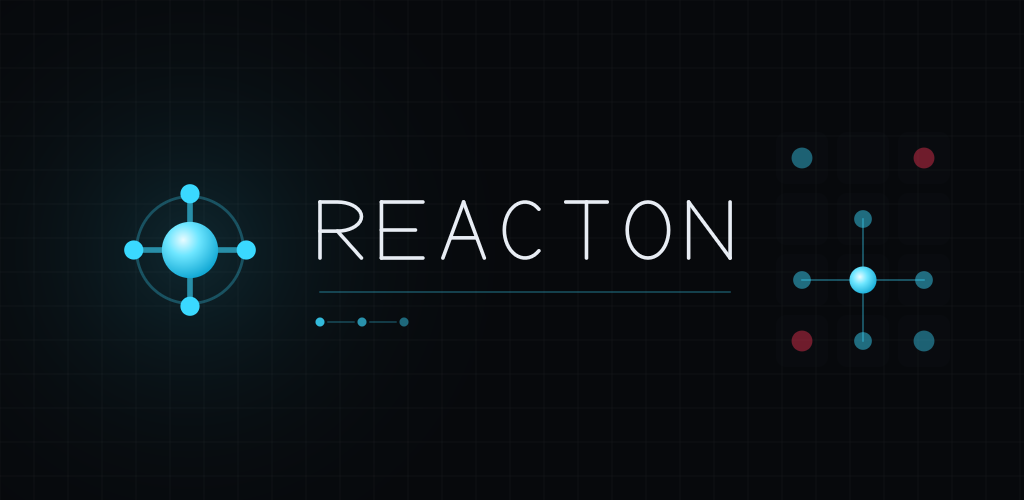
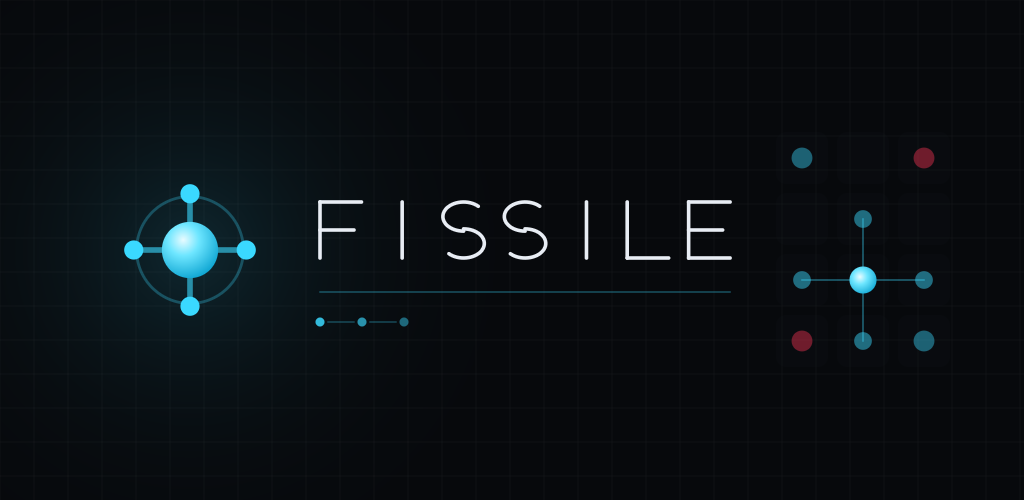
Rename to FISSILE
Reacton was never cleared, and checking it properly turned up a crowded
field: Orbix, Popline, Blastix, Cellix, Kriton, Shockwave and Ripple Rush
were all taken or sat beside an existing mark in the same category -
several of them chain-reaction games with the same feature sentence.

The pattern was consistent enough to act on: evocative words that
describe the mechanic are exactly the words other chain-reaction games
already took. Fissile survived because it does not sound like an obvious
game name. It is also a real word meaning "capable of sustaining a chain
reaction", which is the mechanic stated exactly, and a real term from an
unrelated field applied to a game is arbitrary - the strongest kind of
mark after an invented one.

Store name is "FISSILE: Chain Reactor", 22 of 30 characters. The subtitle
does discovery work rather than branding work: "chain reaction" is what
people search for, and carrying it there costs nothing while the name
itself stays ownable. The wordmark, icon and home-screen label stay the
bare FISSILE.

The icon generator draws its wordmark from a hand-built alphabet, so this
needed four new letterforms. F, I and L were straightforward. The S was
not: the first attempt stacked two bowls curving the same way, which
renders as a C above a U rather than an S. The bowls have to be mirrored
through the letter's centre, with the upper ending at its own bottom and
the lower starting at its own top - the same point - so the stroke reads
[…]

Changed region(s): [[0.3125, 0.39, 0.5312, 0.54], [0.5625, 0.39, 0.7188, 0.54], [0.5, 0.39, 0.5312, 0.42]]

diff --git a/public/terms.html b/public/terms.html
@@ -5,7 +5,7 @@
     <meta name="viewport" content="width=device-width, initial-scale=1" />
     <meta name="robots" content="index, follow" />
     <link rel="icon" type="image/svg+xml" href="/favicon.svg" />
-    <title>Terms — REACTON</title>
+    <title>Terms — FISSILE</title>
     <style>
       :root {
         --bg: #07090c;
@@ -64,7 +64,7 @@
   <body>
     <main>
       <header>
-        <a class="brand" href="/">REACTON</a>
+        <a class="brand" href="/">FISSILE</a>
         <h1>Terms of use</h1>
         <p class="updated">Last updated 25 August 2026</p>
       </header>
@@ -73,10 +73,10 @@
         <p><b>Draft.</b> Written to match how the game actually works, but not reviewed by a lawyer and not legal advice. Fill in every <span class="fill">[BRACKETED]</span> value and have it reviewed before launch or store submission.</p>
       </div>
 
-      <p>By playing REACTON you agree to these terms. If you do not agree, please do not play.</p>
+      <p>By playing FISSILE you agree to these terms. If you do not agree, please do not play.</p>
 
       <h2>The game</h2>
-      <p>REACTON is provided free of charge for personal, non-commercial entertainment. You may play it, and share links to it, as much as you like. You may not resell it, repackage it, or present it as your own.</p>
+      <p>FISSILE is provided free of charge for personal, non-commercial entertainment. You may play it, and share links to it, as much as you like. You may not resell it, repackage it, or present it as your own.</p>
 
       <h2>Your account</h2>
       <p>Online play uses a <b>guest account</b> created automatically by the server. There is no password to protect and no email address attached, which has one consequence you should understand before you invest time in a rating:</p>
@@ -107,7 +107,7 @@
       <p>To the fullest extent permitted by law, <span class="fill">[LEGAL ENTITY / TRADING NAME]</span> is not liable for any indirect, incidental or consequential loss arising from your use of the game, including lost accounts, lost ratings or lost time. Nothing here limits liability that cannot be limited by law.</p>
 
       <h2>Intellectual property</h2>
-      <p>The name, mark, artwork, sound, code and presentation of REACTON belong to <span class="fill">[LEGAL ENTITY / TRADING NAME]</span>. The underlying chain-reaction game mechanic is a genre and belongs to nobody; this implementation, its identity and its presentation are original work.</p>
+      <p>The name, mark, artwork, sound, code and presentation of FISSILE belong to <span class="fill">[LEGAL ENTITY / TRADING NAME]</span>. The underlying chain-reaction game mechanic is a genre and belongs to nobody; this implementation, its identity and its presentation are original work.</p>
 
       <h2>Privacy</h2>
       <p>What the game stores and why is set out in the <a href="/privacy.html">Privacy notice</a>, which forms part of these terms.</p>

diff --git a/index.html b/index.html
@@ -11,27 +11,27 @@
     <meta name="mobile-web-app-capable" content="yes" />
     <meta name="apple-mobile-web-app-capable" content="yes" />
     <meta name="apple-mobile-web-app-status-bar-style" content="black-translucent" />
-    <meta name="description" content="REACTON — a multiplayer orb-reaction strategy game. Drive cells past critical mass, propagate the cascade, capture the field. Local pass-and-play or online with a room code." />
+    <meta name="description" content="FISSILE — a multiplayer orb-reaction strategy game. Drive cells past critical mass, propagate the cascade, capture the field. Local pass-and-play or online with a room code." />
 
     <!-- Share cards need an absolute URL and a raster image: a relative path
          resolves against the crawler, and almost no platform renders SVG.
          Regenerate og-card.png with "npm run icons"; update the origin here
          if the deployed domain changes. -->
     <meta property="og:type" content="website" />
-    <meta property="og:site_name" content="REACTON" />
+    <meta property="og:site_name" content="FISSILE" />
     <meta property="og:url" content="https://chainreaction-sooty.vercel.app/" />
-    <meta property="og:title" content="REACTON" />
+    <meta property="og:title" content="FISSILE: Chain Reactor" />
     <meta property="og:description" content="Drive cells past critical mass. Propagate the cascade. Capture the field." />
     <meta property="og:image" content="https://chainreaction-sooty.vercel.app/og-card.png" />
     <meta property="og:image:width" content="1200" />
     <meta property="og:image:height" content="630" />
-    <meta property="og:image:alt" content="The REACTON mark: a charged cell firing into its four neighbours." />
+    <meta property="og:image:alt" content="The FISSILE mark: a charged cell firing into its four neighbours." />
     <meta name="twitter:card" content="summary_large_image" />
-    <meta name="twitter:title" content="REACTON" />
+    <meta name="twitter:title" content="FISSILE: Chain Reactor" />
     <meta name="twitter:description" content="Drive cells past critical mass. Propagate the cascade. Capture the field." />
     <meta name="twitter:image" content="https://chainreaction-sooty.vercel.app/og-card.png" />
 
-    <title>REACTON — chain reaction strategy</title>
+    <title>FISSILE: Chain Reactor</title>
   </head>
   <body>
     <div id="app">
@@ -72,7 +72,7 @@
               <circle class="mark-wave" cx="32" cy="32" r="10" />
               <circle class="mark-core" cx="32" cy="32" r="10" />
             </svg>
-            <h1 class="logo">REACTON</h1>
+            <h1 class="logo">FISSILE</h1>
             <p class="tagline">critical mass · propagation · capture</p>
           </div>
 

diff --git a/public/privacy.html b/public/privacy.html
@@ -5,7 +5,7 @@
     <meta name="viewport" content="width=device-width, initial-scale=1" />
     <meta name="robots" content="index, follow" />
     <link rel="icon" type="image/svg+xml" href="/favicon.svg" />
-    <title>Privacy — REACTON</title>
+    <title>Privacy — FISSILE</title>
     <style>
       :root {
         --bg: #07090c;
@@ -66,7 +66,7 @@
   <body>
     <main>
       <header>
-        <a class="brand" href="/">REACTON</a>
+        <a class="brand" href="/">FISSILE</a>
         <h1>Privacy</h1>
         <p class="updated">Last updated 25 August 2026</p>
       </header>
@@ -75,7 +75,7 @@
         <p><b>Draft.</b> This describes accurately what the game does today, but it has not been reviewed by a lawyer and is not legal advice. Fill in every <span class="fill">[BRACKETED]</span> value and have it reviewed before launch or store submission.</p>
       </div>
 
-      <p>REACTON is a browser game. It is designed to need as little about you as possible: there is no sign-up, no email address, no password, and no advertising or third-party tracking of any kind.</p>
+      <p>FISSILE is a browser game. It is designed to need as little about you as possible: there is no sign-up, no email address, no password, and no advertising or third-party tracking of any kind.</p>
 
       <h2>What is stored on your device</h2>
       <p>The game keeps a small amount of data in your browser's own storage. It never leaves your device unless a section below says otherwise.</p>
@@ -110,7 +110,7 @@
       <p>The game sets no cookies. It uses your browser's local storage, described above, for settings and your account — not for tracking, and not shared with anyone.</p>
 
       <h2>Children</h2>
-      <p>REACTON is a general-audience game and is not directed at children under 13. We do not knowingly collect personal information from children. Because there is no sign-up, we do not ask for an age. If you believe a child has provided a display name or other information you want removed, contact us at <span class="fill">[CONTACT EMAIL]</span>.</p>
+      <p>FISSILE is a general-audience game and is not directed at children under 13. We do not knowingly collect personal information from children. Because there is no sign-up, we do not ask for an age. If you believe a child has provided a display name or other information you want removed, contact us at <span class="fill">[CONTACT EMAIL]</span>.</p>
 
       <h2>Your choices</h2>
       <ul>

diff --git a/src/style.css b/src/style.css
@@ -1,4 +1,4 @@
-/* REACTON — scientific art direction.
+/* FISSILE — scientific art direction.
    Graphite substrate, hairline structure, one cyan energy accent, and
    monospace for anything that reads as an instrument value. Typography is
    deliberately a system grotesque + system mono rather than a webfont: the

diff --git a/STORE-LISTING.md b/STORE-LISTING.md
@@ -4,9 +4,12 @@ Draft copy and form answers. The data-safety section is derived from what the
 code actually does — if that changes, this has to change with it, because the
 form is a declaration and Google checks it against observed behaviour.
 
-> **The name is still uncleared.** Everything below says REACTON. The package
-> id you choose at `bubblewrap init` can never be changed afterwards, so settle
-> the name first — see the naming notes in the roadmap (§15).
+> **Name: FISSILE.** Chosen after checking Reacton, Orbix, Popline, Blastix,
+> Cellix, Kriton, Shockwave and Ripple Rush — all of which were taken or sat
+> beside an existing mark in the same category. Casual searches found nothing
+> for FISSILE in games; that is **not** a trademark clearance, and USPTO
+> classes 9 and 41 remain the check that counts before the package id is
+> locked at `bubblewrap init`.
 
 ---
 
@@ -15,19 +18,13 @@ form is a declaration and Google checks it against observed behaviour.
 Max 30 characters. Google counts the whole string including any subtitle.
 
 ```
-REACTON
+FISSILE: Chain Reactor
 ```
 
-Alternatives if the bare name reads too thin in search results:
-
-```
-REACTON: Chain Reaction
-REACTON — Orb Strategy
-```
-
-The second word is doing discovery work, not branding work. "Chain reaction" is
-the phrase people actually search, and putting it here costs nothing while the
-name itself stays distinct.
+22 of 30 characters. The subtitle is doing discovery work, not branding work:
+"chain reaction" is the phrase people actually search for, and carrying it here
+costs nothing while the name itself stays distinct and ownable. The wordmark,
+the icon and the home-screen label stay the bare **FISSILE**.
 
 ## Short description
 
@@ -47,7 +44,7 @@ Max 4000 characters.
 ```
 Charge a cell past critical mass and watch it go.
 
-REACTON is a chain-reaction strategy game. Tap a cell to add a particle. Fill
+FISSILE is a chain-reaction strategy game. Tap a cell to add a particle. Fill
 it past its limit — 2 in a corner, 3 on an edge, 4 in the middle — and it
 bursts, firing one particle into every neighbour and turning each of them
 yours. Those cells can burst too. A single well-placed tap can roll across the

diff --git a/README.md b/README.md
@@ -1,4 +1,4 @@
-# REACTON
+# FISSILE
 
 A multiplayer orb-reaction strategy game. Charge cells past **critical mass**,
 propagate the cascade, capture the field. Play locally on one device
@@ -8,7 +8,7 @@ propagate the cascade, capture the field. Play locally on one device
 
 The product direction — art direction, modes, platform plan, naming — lives in
 [Chain_Reaction_Game_Product_Roadmap.md](Chain_Reaction_Game_Product_Roadmap.md).
-REACTON is the shortlisted name from §17; the name is **not yet cleared** for
+FISSILE is the shortlisted name from §17; the name is **not yet cleared** for
 trademark, app store, domain or social handles, so treat it as a working brand
 until that check is done (roadmap §15).
 

diff --git a/ANDROID.md b/ANDROID.md
@@ -1,4 +1,4 @@
-# Packaging REACTON for Google Play
+# Packaging FISSILE for Google Play
 
 The Android app is a **Trusted Web Activity**: a thin native shell that runs
 this site inside the user's own Chrome. The engine, the Three.js renderer and
@@ -28,7 +28,7 @@ to. Don't take it until something actually requires it.
 
 ## What is not
 
-- **The name is not cleared.** REACTON has not been checked for trademark, app
+- **The name is not cleared.** FISSILE has not been checked for trademark, app
   store or domain conflicts (roadmap §15). A Play listing is a public,
   permanent, first-use-in-commerce record under that name, and the package id
   below can never be changed once published. Clear the name first.
